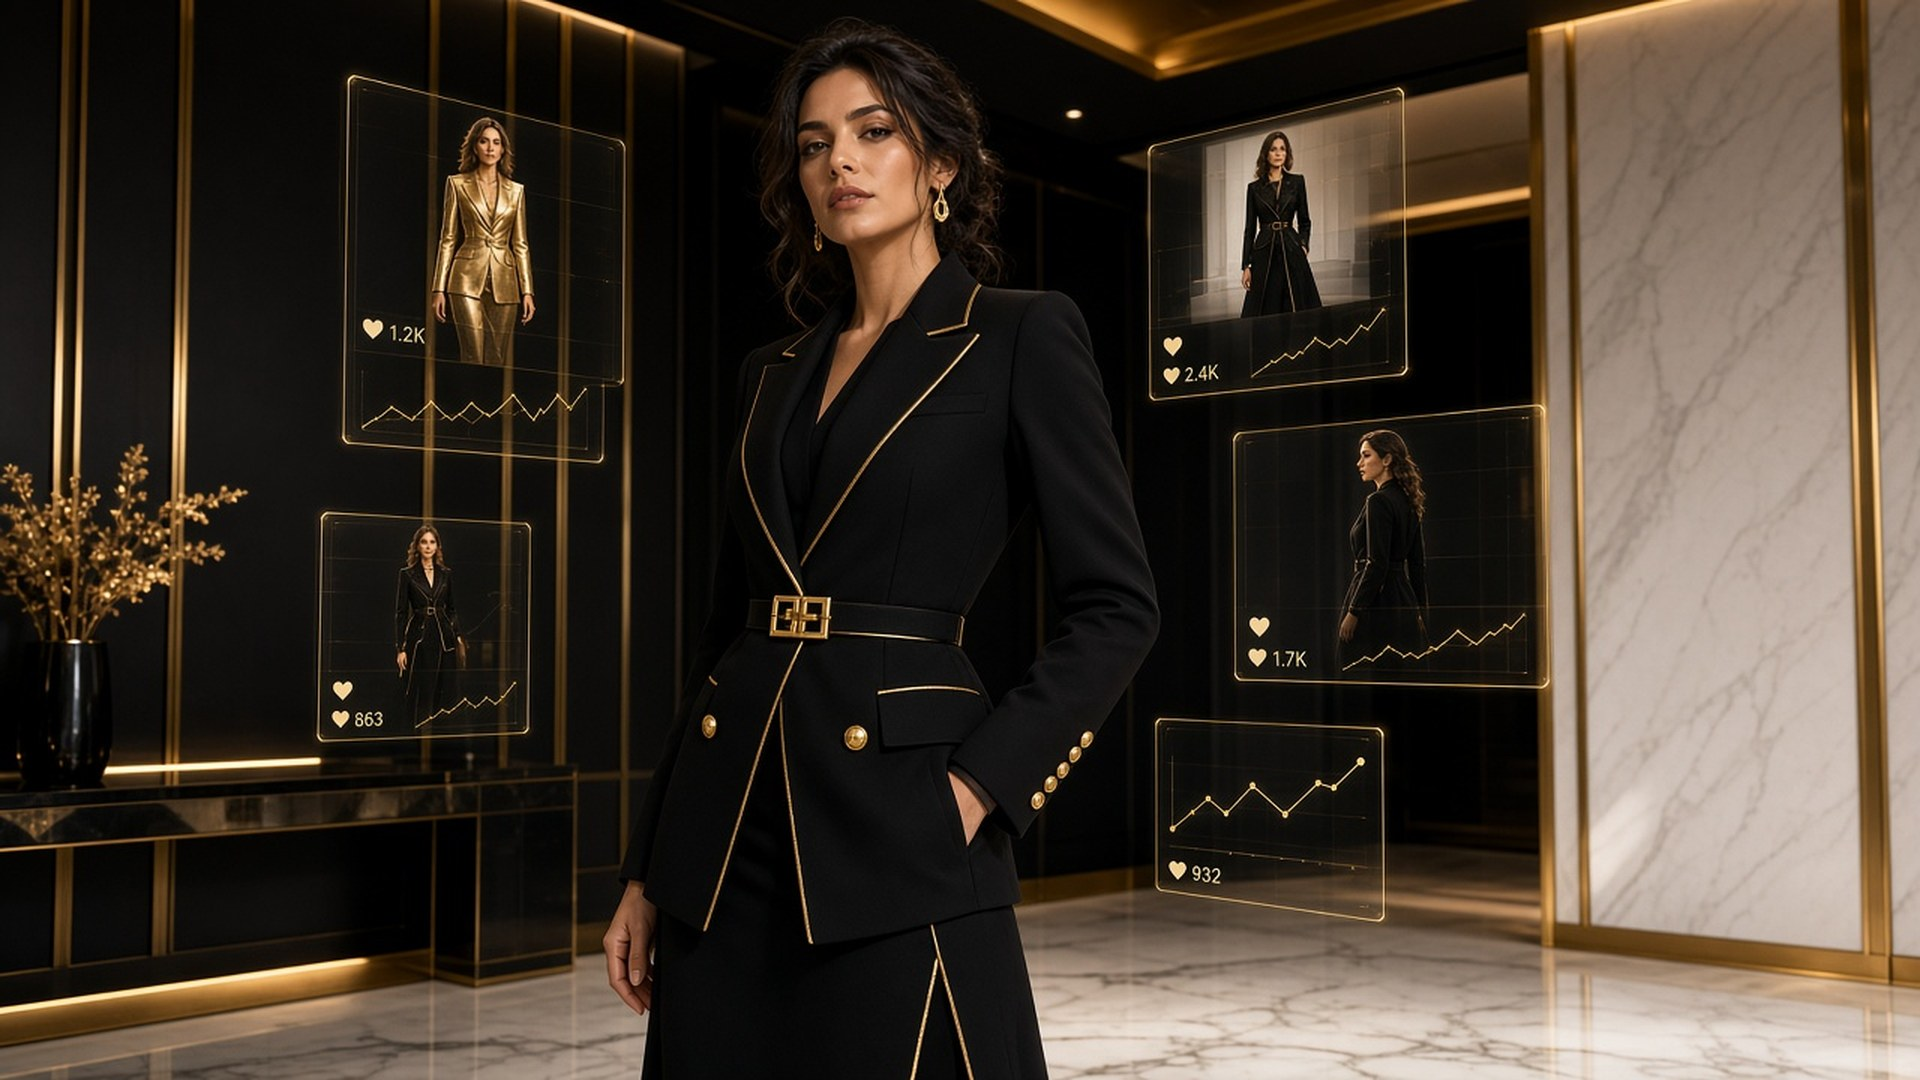
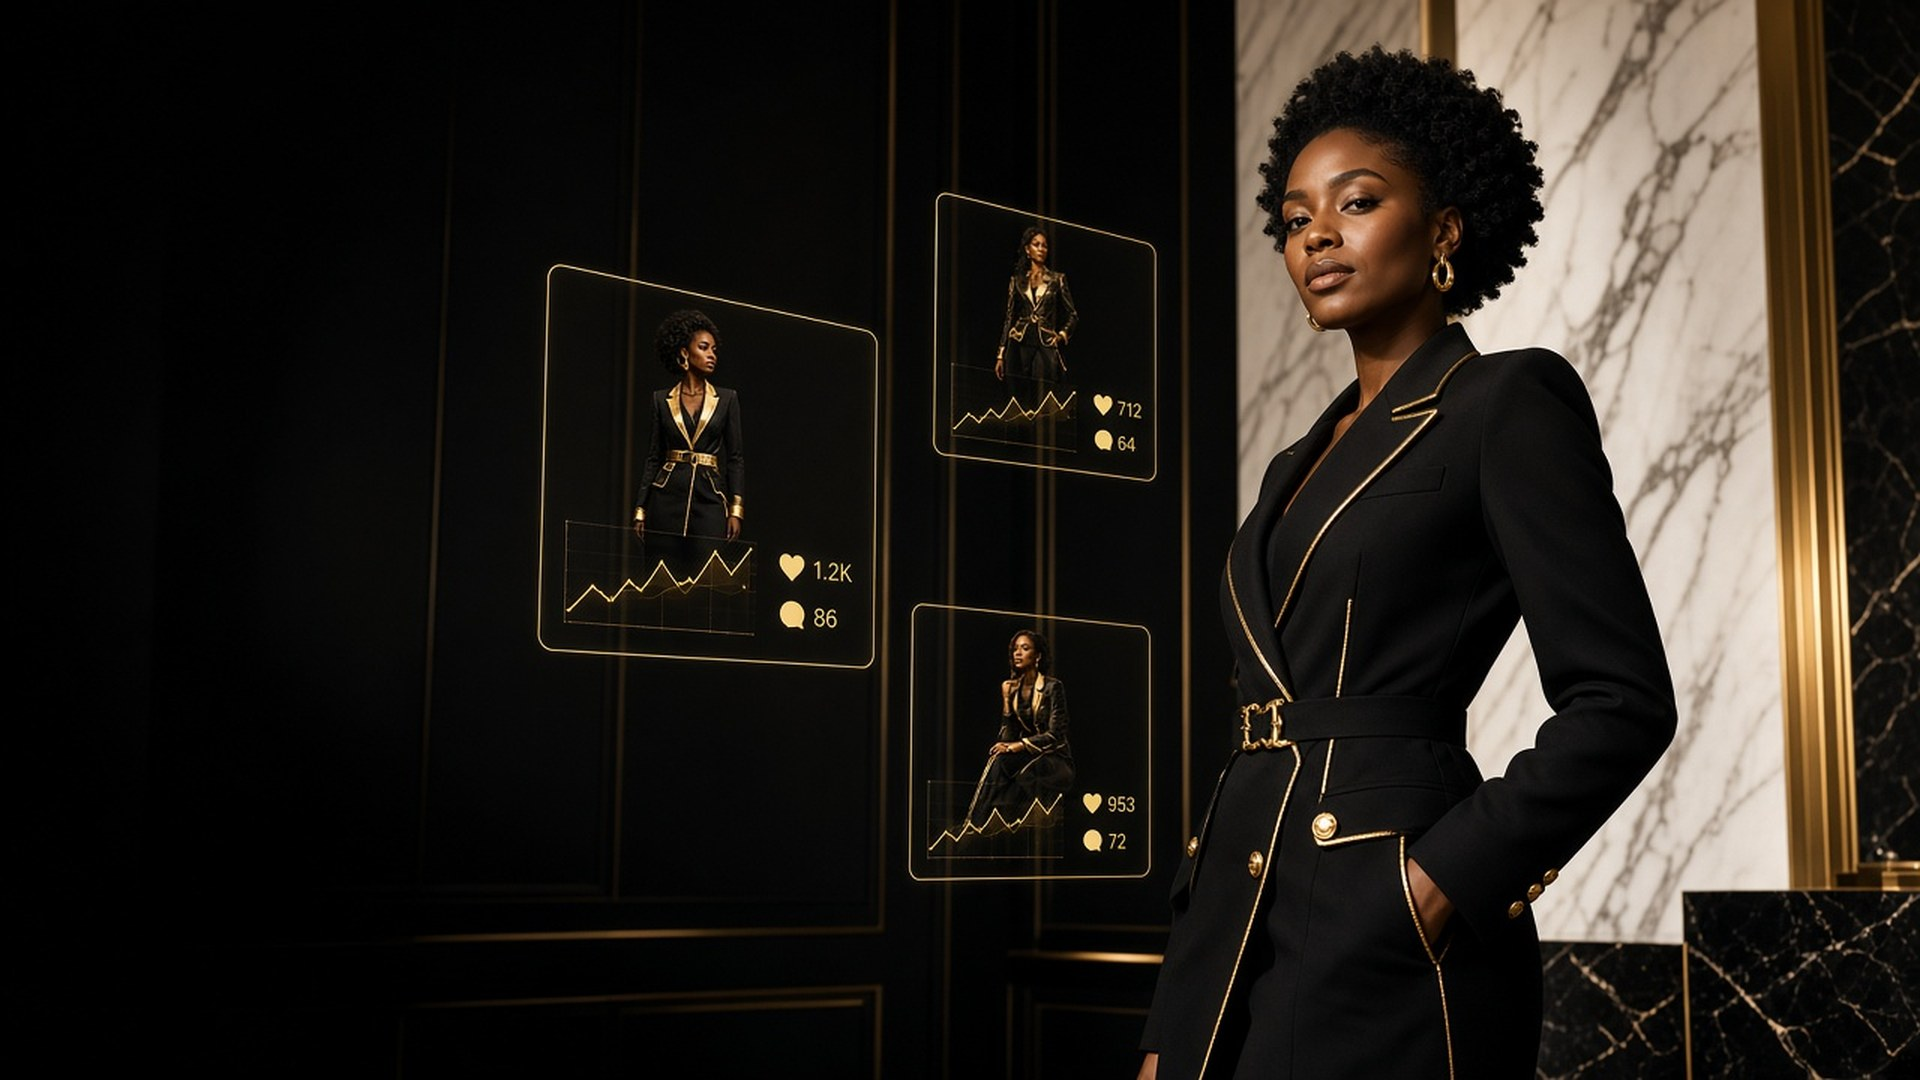
Show an African American mother in the home hero.
The banner keeps the black and gold editorial and places her on the open side of the frame.

diff --git a/src/routes/index.tsx b/src/routes/index.tsx
@@ -131,7 +131,7 @@ function HomePage() {
       <section className="relative min-h-[100svh]">
         <img
           src={heroEditorial}
-          alt="A woman in a tailored black and gold ensemble, standing in a modern interior with thin gold frames of looks"
+          alt="An African American mother in a tailored black and gold ensemble, standing in a modern interior with thin gold frames of looks"
           className="absolute inset-0 h-full w-full object-cover object-[70%_center]"
         />
         <div className="absolute inset-0 bg-gradient-to-t from-black/55 via-black/15 to-black/30" />
